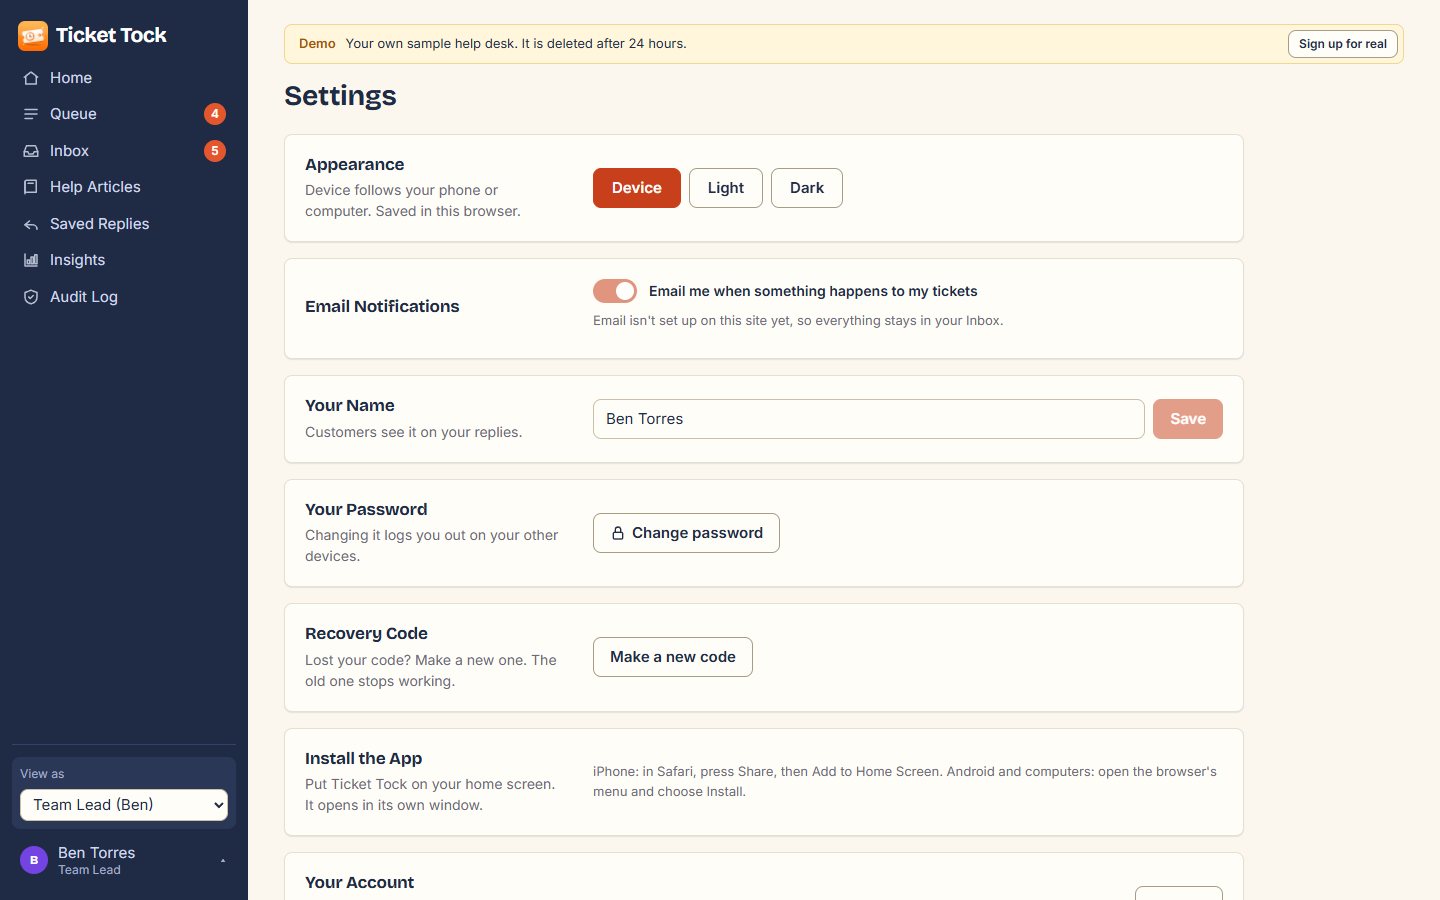
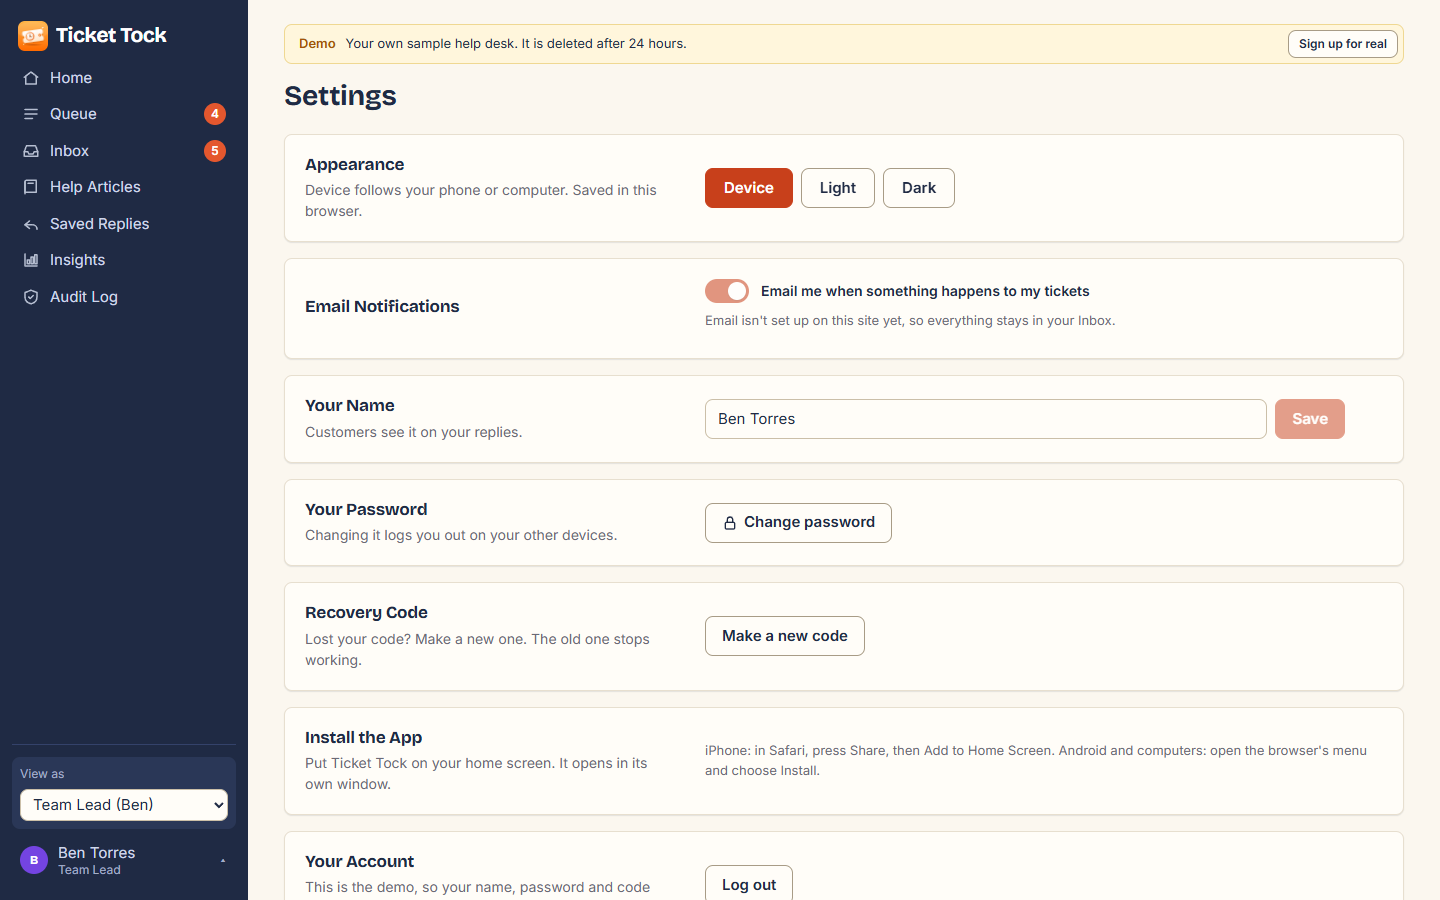
Settings cards fill the page
- The Settings cards are as wide as the page (like the other pages), with a
  wider words column on big screens
- Text boxes keep an easy width (at most 40rem); Install Ticket Tock and
  Log out line up with the other controls instead of stretching or
  sitting at the far right
- Screenshots retaken; 345 tests

diff --git a/tickettock/static/style.css b/tickettock/static/style.css
@@ -502,12 +502,13 @@ input[type="checkbox"], input[type="radio"] { accent-color: var(--accent); width
 
 /* ---------- Settings ---------- */
 
-.settings { display: grid; gap: 1rem; max-width: 60rem; }
+.settings { display: grid; gap: 1rem; }  /* as wide as the page, like the other pages */
 .setting {
   display: grid; gap: 1rem; background: var(--surface); border: 1px solid var(--border);
   border-radius: var(--radius); box-shadow: var(--shadow); padding: 1.25rem;
 }
 @media (min-width: 48rem) { .setting { grid-template-columns: 16rem minmax(0, 1fr); gap: 2rem; } }
+@media (min-width: 72rem) { .setting { grid-template-columns: 22rem minmax(0, 1fr); gap: 3rem; } }
 .setting-text h2 { font-size: 1.0625rem; margin-bottom: 0.25rem; }
 .setting-text p { color: var(--muted); font-size: 0.875rem; }
 .theme-choice { display: flex; gap: 0.5rem; border: 0; padding: 0; margin: 0; flex-wrap: wrap; align-self: center; }
@@ -519,7 +520,7 @@ input[type="checkbox"], input[type="radio"] { accent-color: var(--accent); width
 }
 .theme-choice input:checked + span { background: var(--accent-soft); border-color: var(--accent); color: var(--accent-text); }
 .theme-choice input:focus-visible + span { outline: 2px solid var(--accent); outline-offset: 2px; }
-.setting-links { display: grid; gap: 0.5rem; align-self: center; }
+.setting-links { display: grid; gap: 0.5rem; align-self: center; justify-items: start; }
 
 .code-box {
   font-family: var(--font-code); font-size: 1.5rem; font-weight: 600; letter-spacing: 0.08em; text-align: center;
@@ -997,3 +998,7 @@ input[type="checkbox"].switch:disabled { opacity: 0.55; cursor: not-allowed; }
 .setting-fold[open] summary { margin-bottom: 1rem; }
 .setting-fold { display: grid; justify-items: start; }
 .setting-fold > form { width: 100%; }
+
+/* The cards fill the page, but text boxes keep a width that's easy to read and fill in. */
+.setting .inline-save, .setting-fold > form, .setting .switch-line + .hint { max-width: 40rem; }
+.setting > .form-actions { justify-content: flex-start; }  /* Log out lines up with the other controls */
